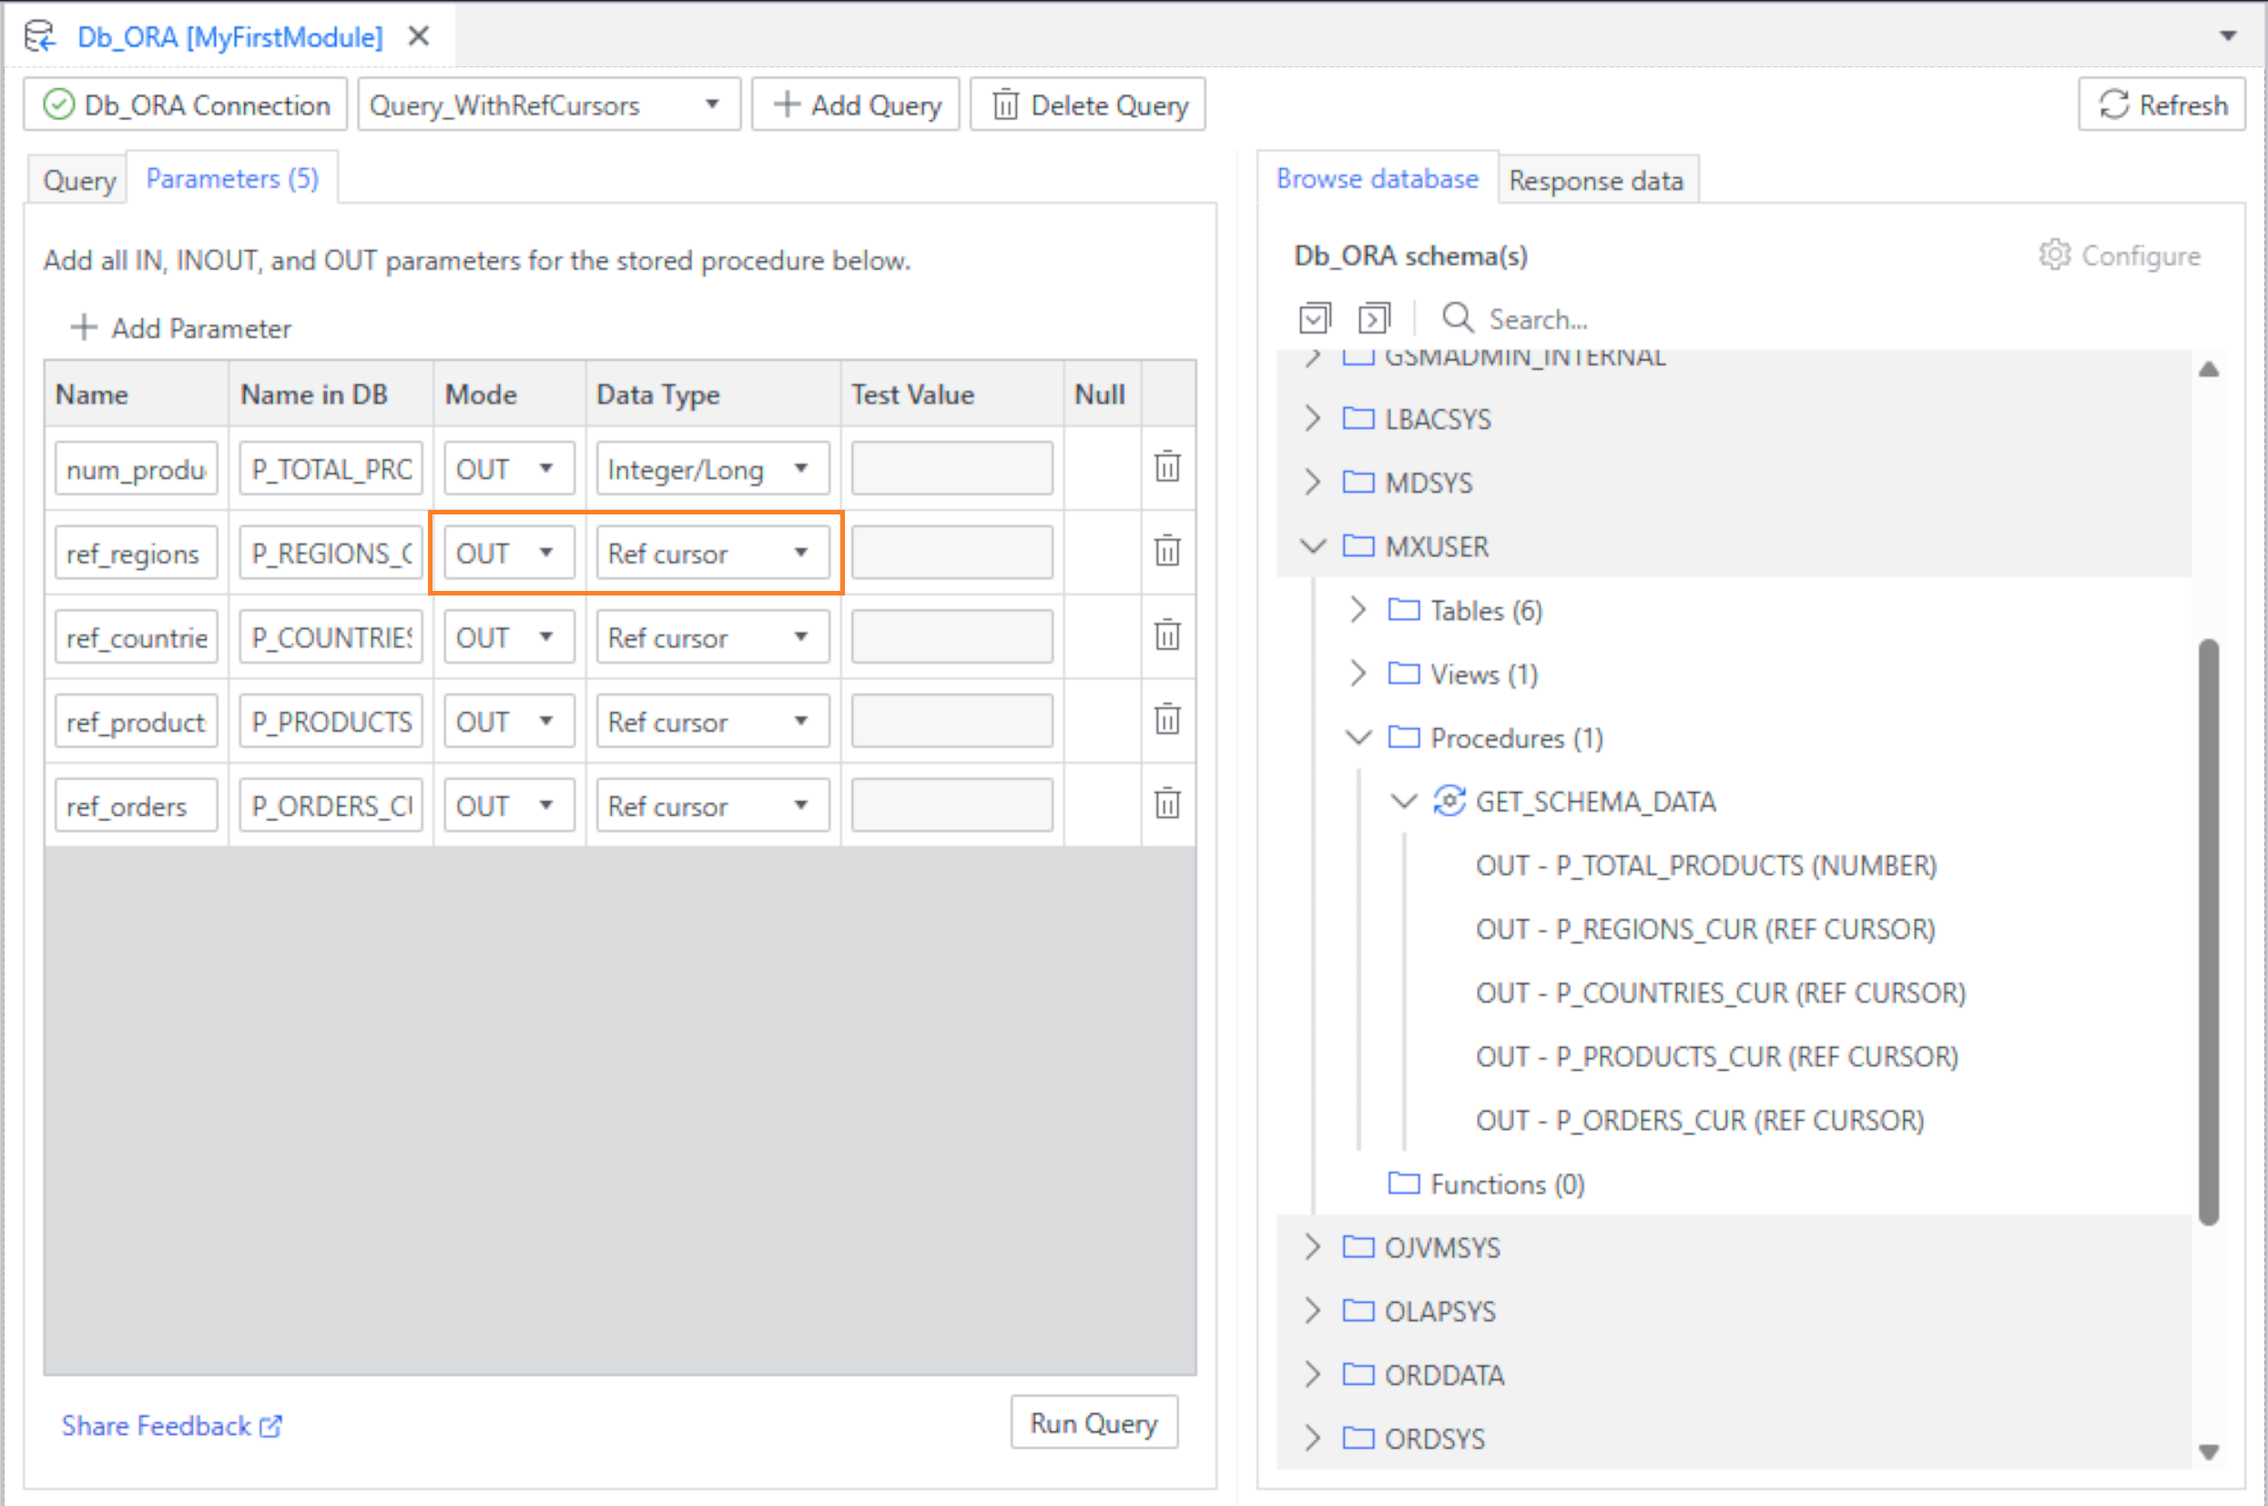
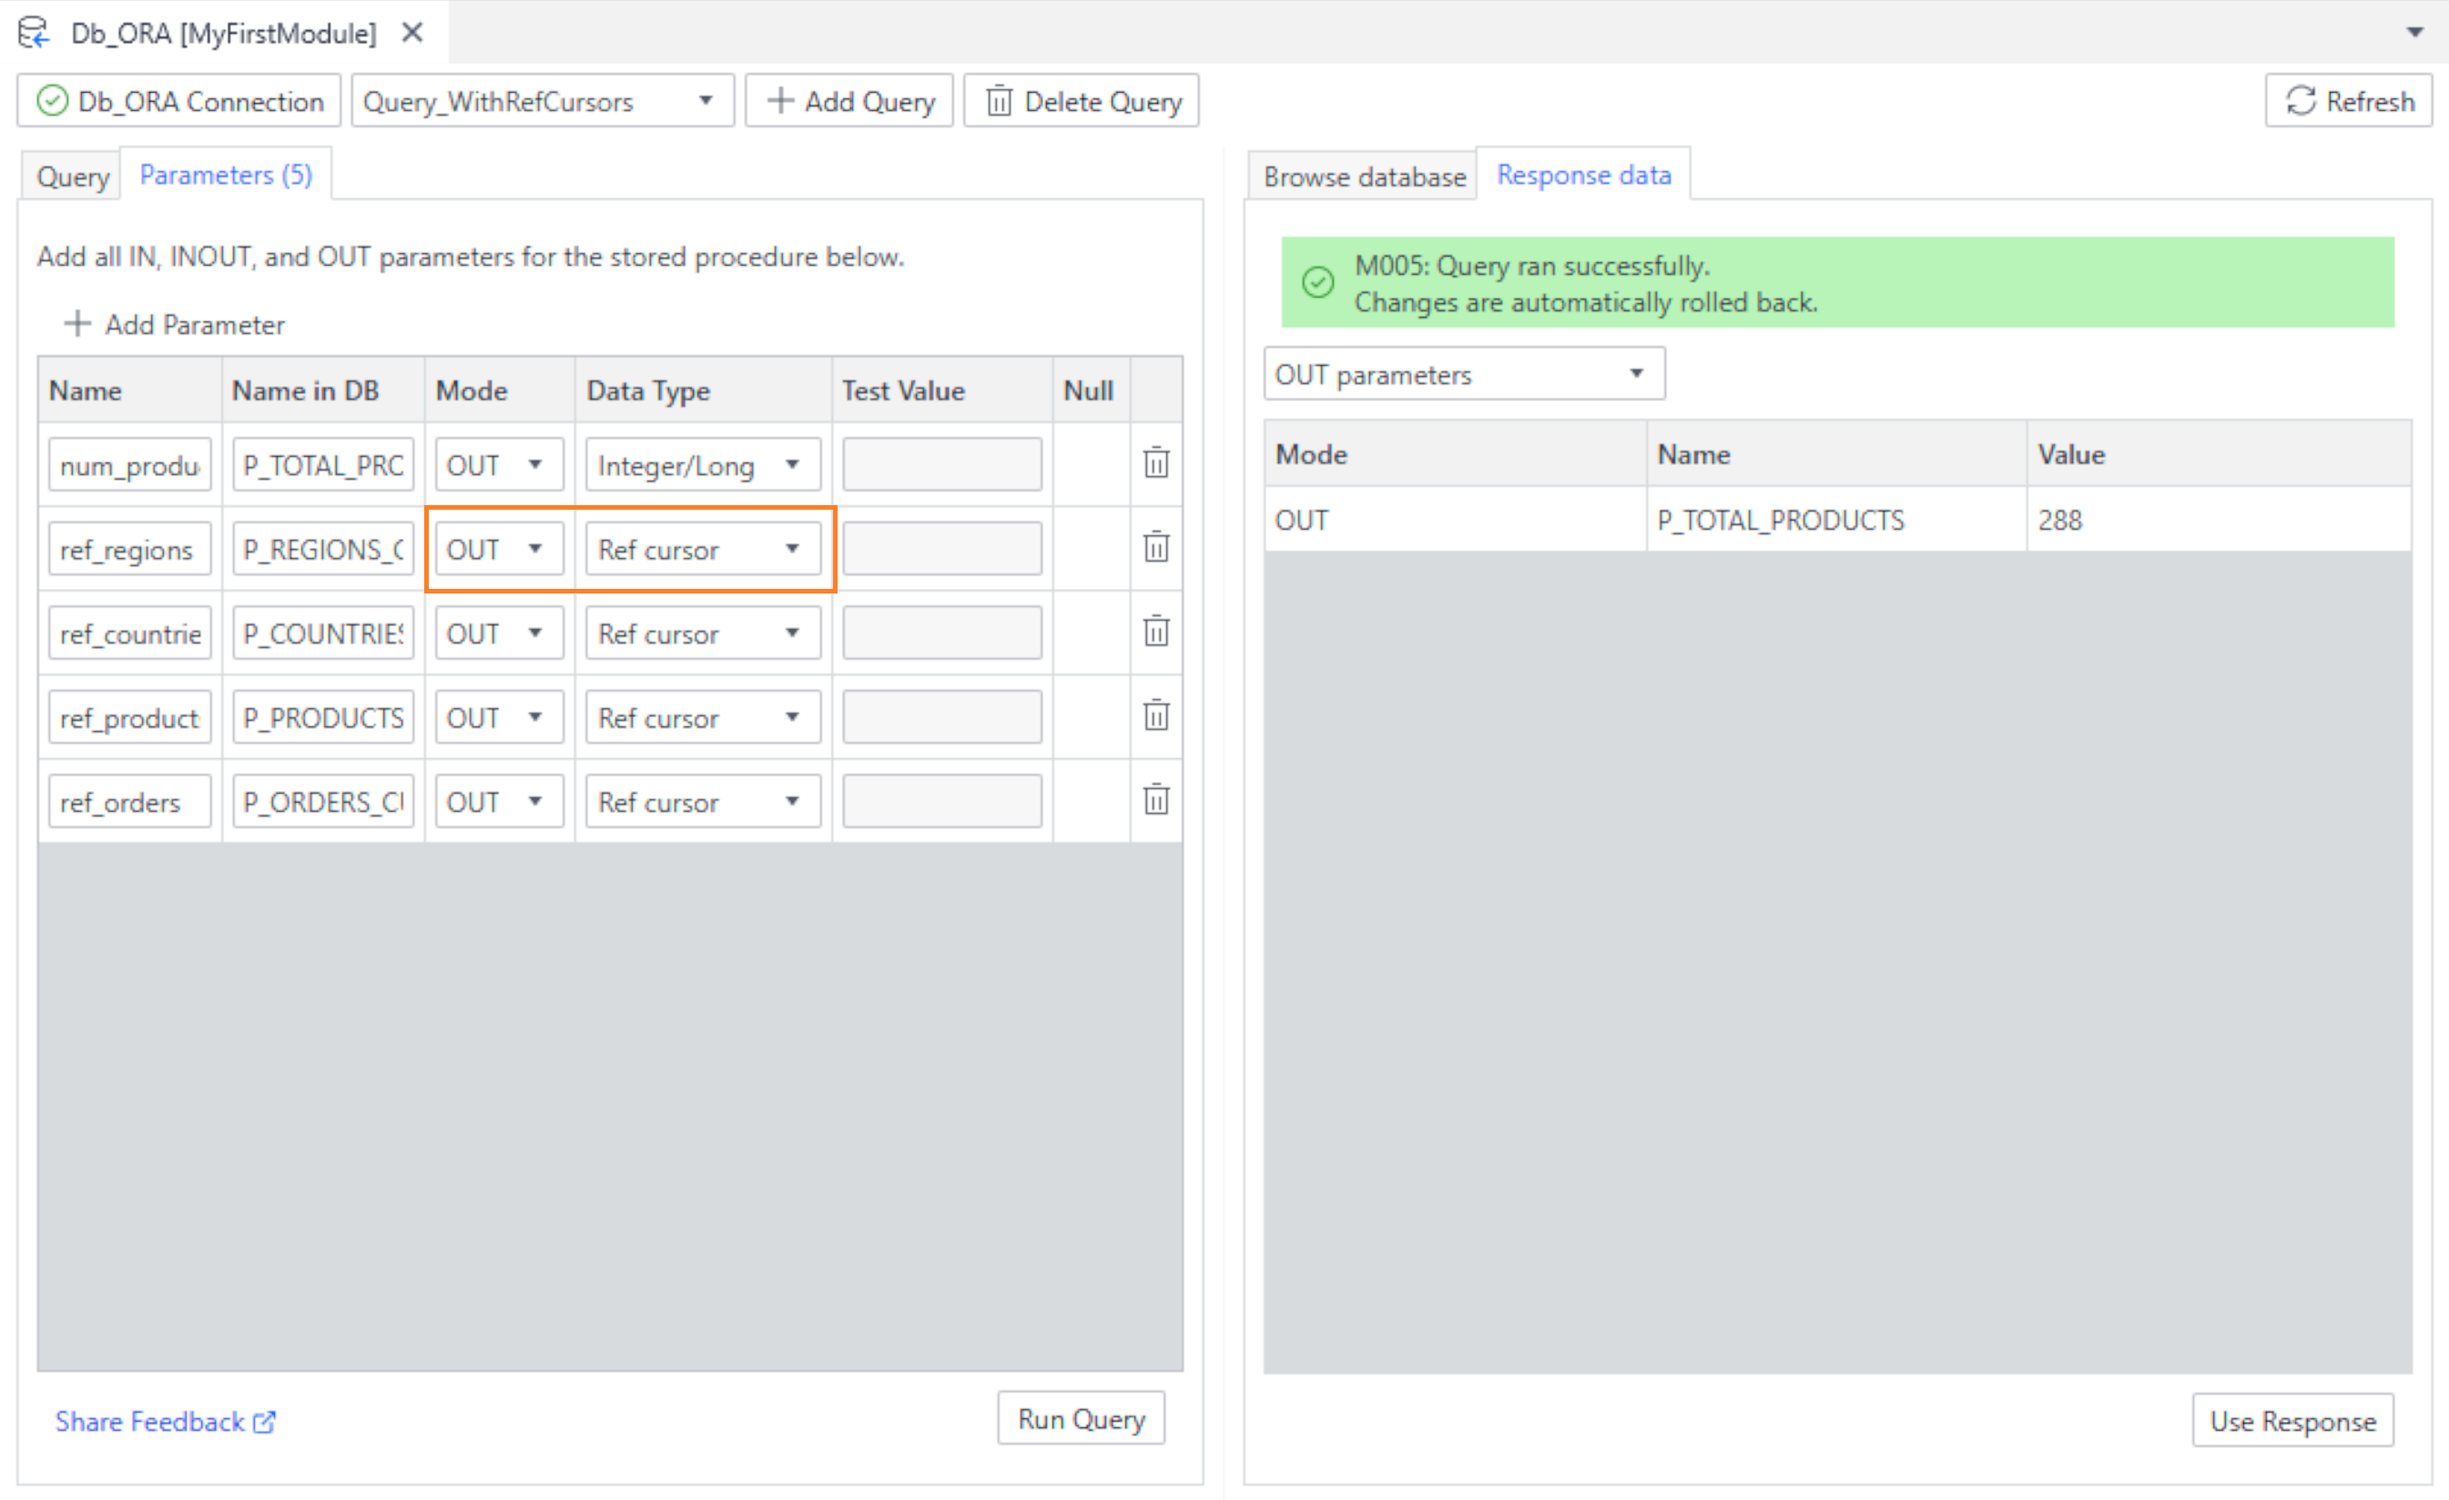
EDC: Add brief description how to use Ref cursor

diff --git a/content/en/docs/refguide/modeling/integration/use-platform-supported-content/external-database-connector/query-and-integrate-external-data.md b/content/en/docs/refguide/modeling/integration/use-platform-supported-content/external-database-connector/query-and-integrate-external-data.md
@@ -166,11 +166,25 @@ For Postgres, Mendix supports the following parameters:
 
 For MSSQL, for **INOUT** and **OUT** parameters of type Decimal, test values (in design time) are rounded off.
 
-### Use Ref Cursor as OUT Parameter
+**How to Use a Ref Cursor as an OUT Parameter**
 
-{{< figure src="/attachments/refguide/modeling/integration/use-platform-supported-content/use-the-external-database-connector/ref01.png" width="600"  >}} 
+1. Select the **Stored procedure** checkbox.
+
+2. Enter the query to call a stored procedure.<br>
+For example, `CALL GET_SCHEMA_DATA( {num_products}, {ref_regions}, {ref_countries}, {ref_products}, {ref_orders})`. 
+
+{{< figure src="/attachments/refguide/modeling/integration/use-platform-supported-content/use-the-external-database-connector/ref00.png" width="600"  >}}
+
+3. Create **IN**, **OUT**, and **INOUT** parameters for all parameters present in the stored procedure. Ensure that the **Name in DB** matches the parameter name in the stored procedure. To use a *Ref cursor*, select **OUT** in the Data Type column.
+
+{{< figure src="/attachments/refguide/modeling/integration/use-platform-supported-content/use-the-external-database-connector/ref01.png" width="600"  >}}
+
+4. Click **Run Query**. This returns an entity with the number of affected rows and all INOUT and OUT parameters. To view the result set of the *Ref cursor*, select the appropriate item from the drop-down list. The drop-down includes an entity with all OUT parameters and Ref cursors as associated entities.
 
 {{< figure src="/attachments/refguide/modeling/integration/use-platform-supported-content/use-the-external-database-connector/ref02.png" width="600"  >}}
+{{< figure src="/attachments/refguide/modeling/integration/use-platform-supported-content/use-the-external-database-connector/ref02a.png" width="600"  >}}
+
+5. Click **Use Response** > **Create Entity** to save the query and the newly-created entities in the domain model. To modify the entity name, click the pen icon.
 
 {{< figure src="/attachments/refguide/modeling/integration/use-platform-supported-content/use-the-external-database-connector/ref03.png" width="600"  >}}
 
